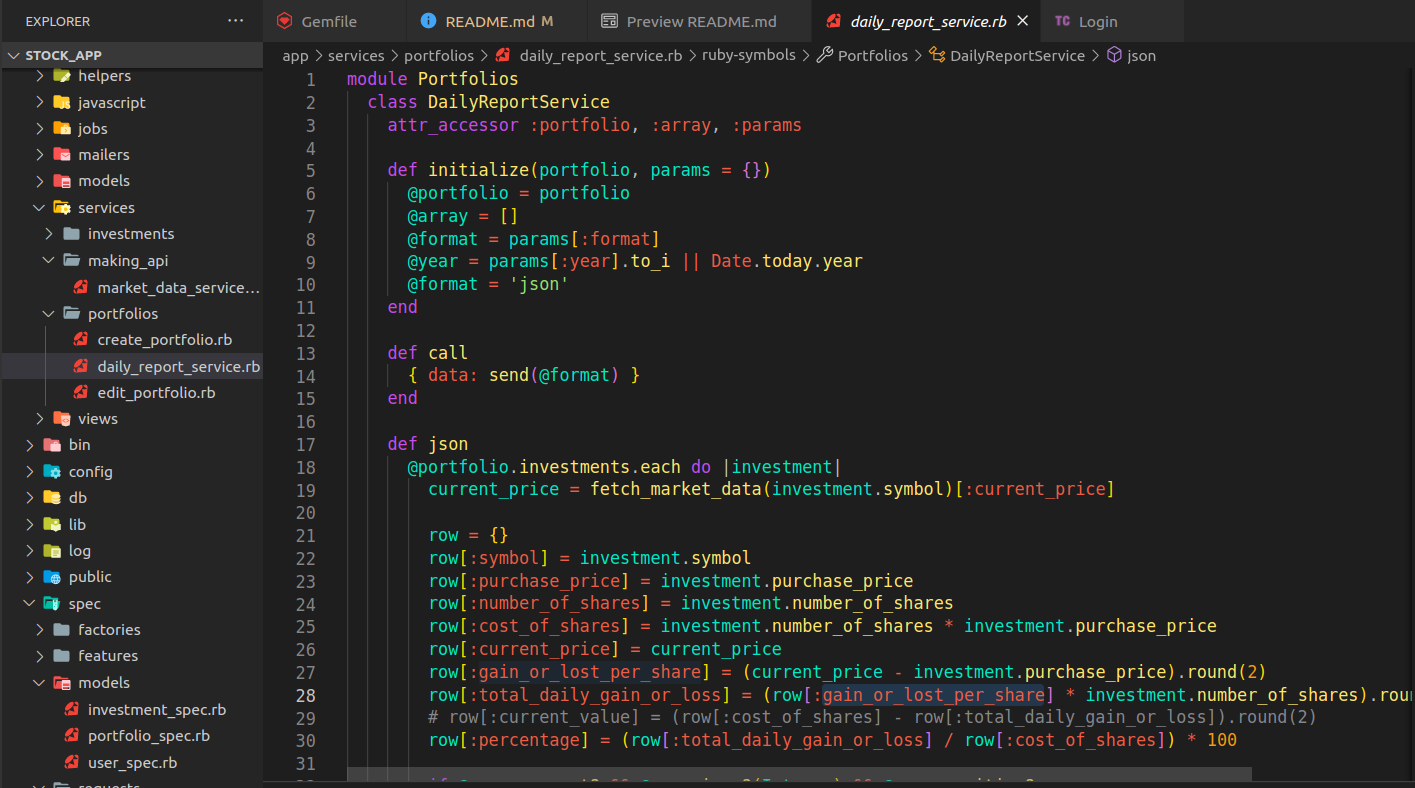
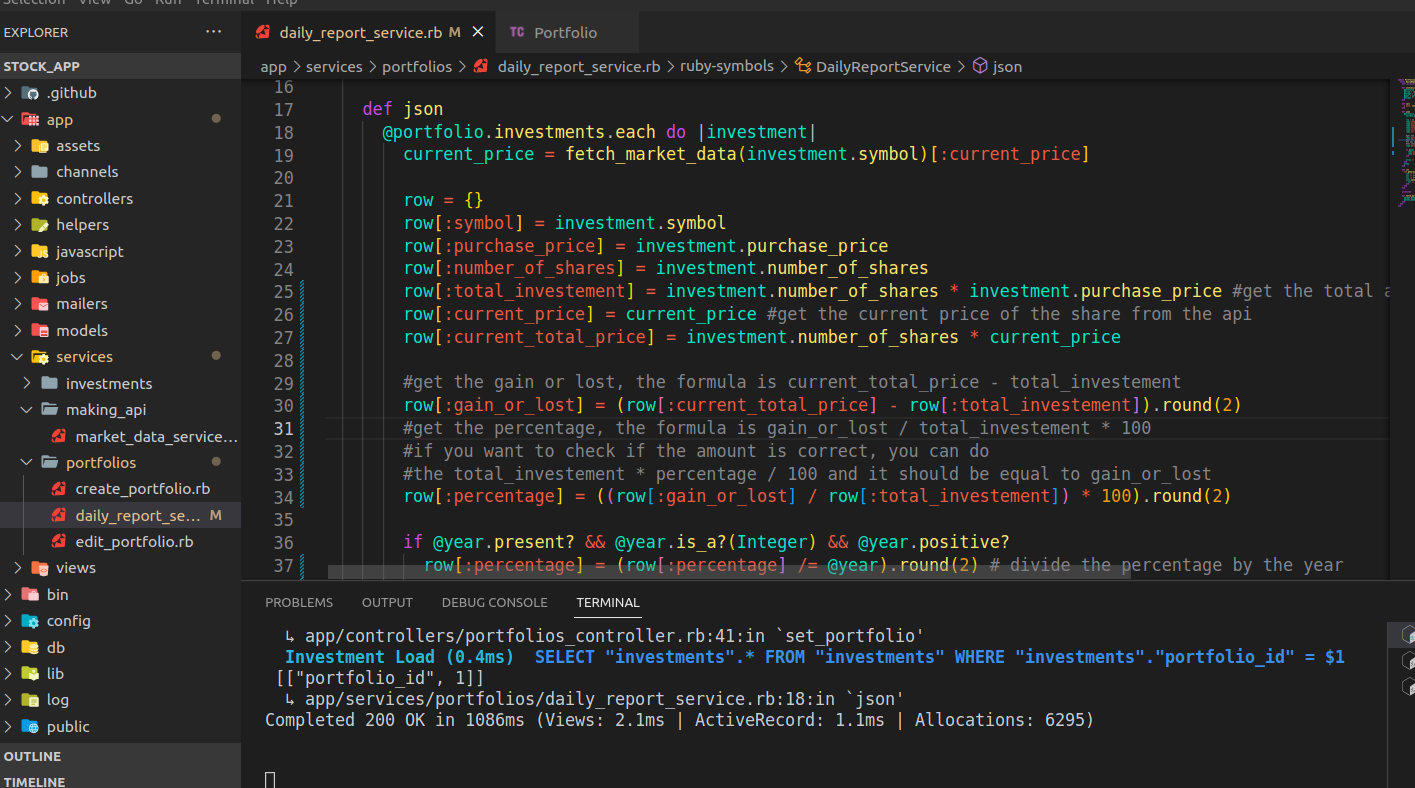
Correct the calculation, add comments for formulas

diff --git a/app/services/portfolios/daily_report_service.rb b/app/services/portfolios/daily_report_service.rb
@@ -22,16 +22,20 @@ module Portfolios
         row[:symbol] = investment.symbol
         row[:purchase_price] = investment.purchase_price
         row[:number_of_shares] = investment.number_of_shares
-        row[:cost_of_shares] = investment.number_of_shares * investment.purchase_price
-        row[:current_price] = current_price
-        row[:gain_or_lost_per_share] = (current_price - investment.purchase_price).round(2)
-        row[:total_daily_gain_or_loss] = (row[:gain_or_lost_per_share] * investment.number_of_shares).round(2)
-        # row[:current_value] = (row[:cost_of_shares] - row[:total_daily_gain_or_loss]).round(2)
-        row[:percentage] = (row[:total_daily_gain_or_loss] / row[:cost_of_shares]) * 100
+        row[:total_investement] = investment.number_of_shares * investment.purchase_price # get the total amount of investment for shares
+        row[:current_price] = current_price # get the current price of the share from the api
+        row[:current_total_price] = investment.number_of_shares * row[:current_price]
+
+        # get the gain or lost, the formula is current_total_price - total_investement
+        row[:gain_or_lost] = (row[:current_total_price] - row[:total_investement]).round(2)
+        # get the percentage, the formula is gain_or_lost / total_investement * 100
+        # if you want to check if the amount is correct, you can do
+        # the total_investement * percentage / 100 and it should be equal to gain_or_lost
+        row[:percentage] = ((row[:gain_or_lost] / row[:total_investement]) * 100).round(2)
 
         if @year.present? && @year.is_a?(Integer) && @year.positive?
-          row[:percentage] = (row[:percentage] /= @year).round(2)
-          row[:total_daily_gain_or_loss] = (row[:gain_or_lost_per_share] * investment.number_of_shares).round(2) * @year
+          row[:percentage] = (row[:percentage] /= @year).round(2) # divide the percentage by the year
+          row[:gain_or_lost] = (row[:gain_or_lost] * row[:number_of_shares]) * @year
         end
 
         array << row

diff --git a/README.md b/README.md
@@ -52,7 +52,7 @@ crreate an investement
 `POST /api/portfolios/:id/investments`
 
 ## Notice
- all the calculations are in the daily_report_service.
+ all the calculations includes comments for formula are in the daily_report_service.
   ![service](app/assets/images/serv.png)
 
 
